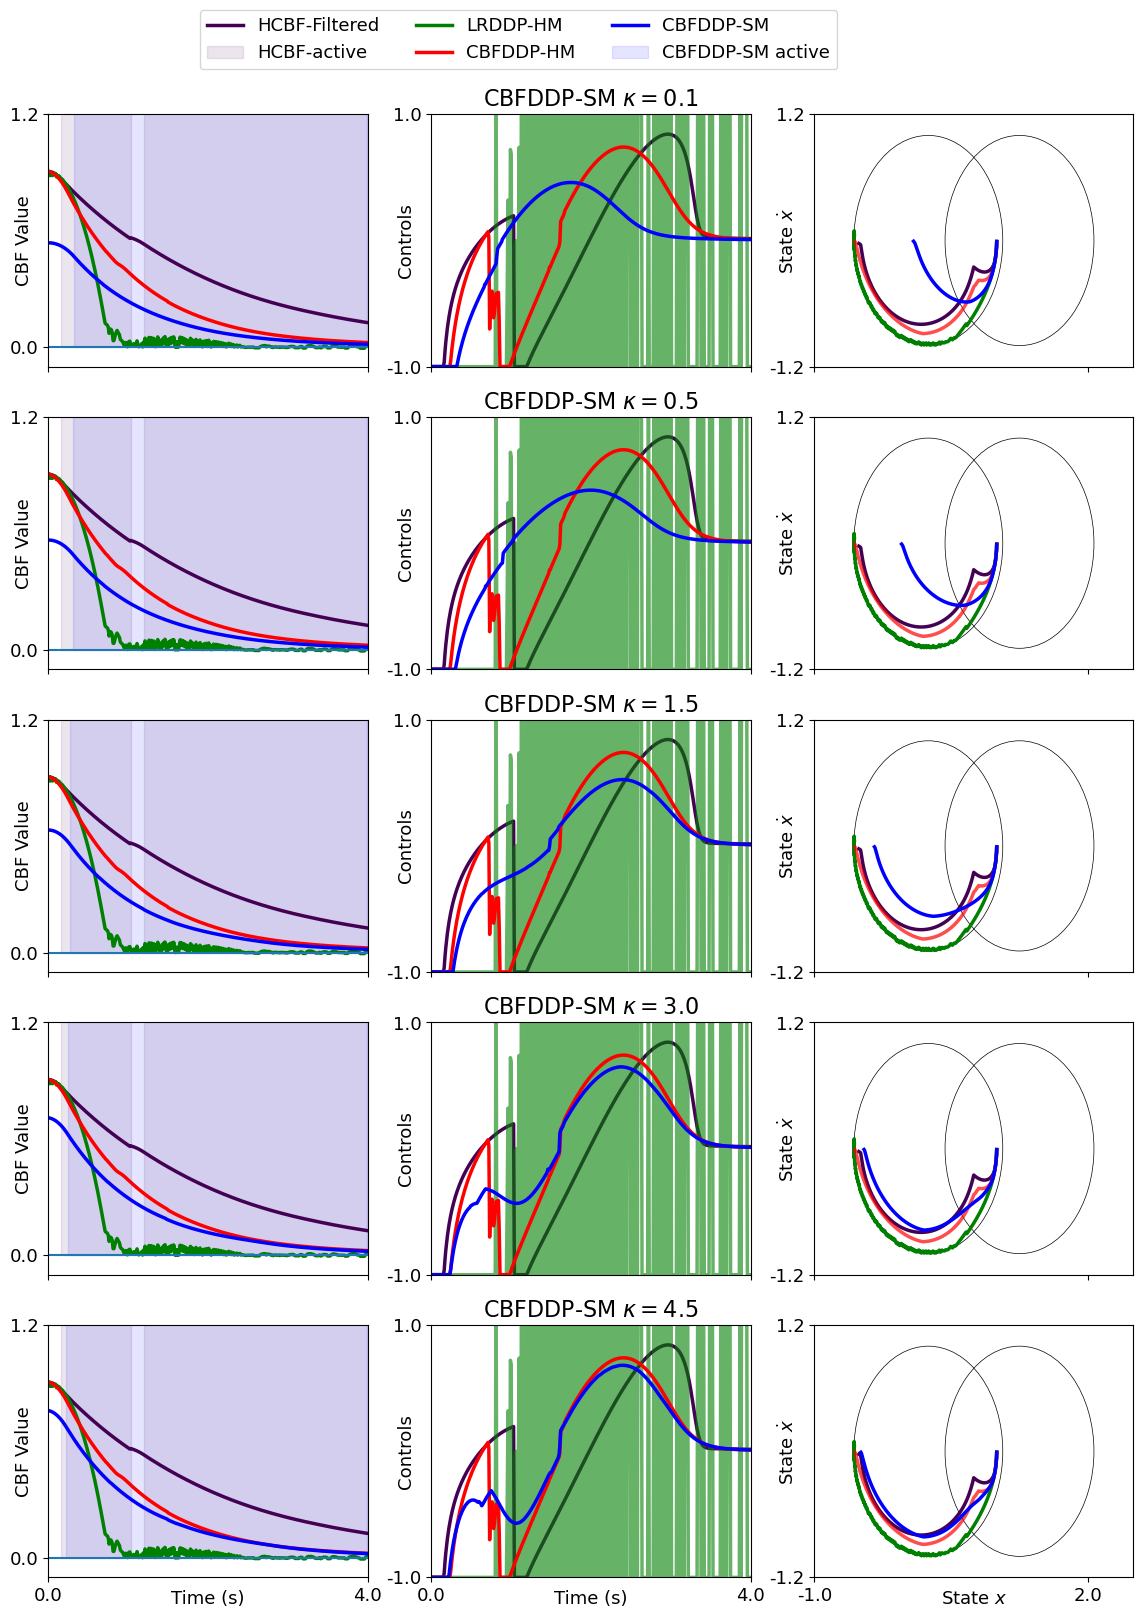
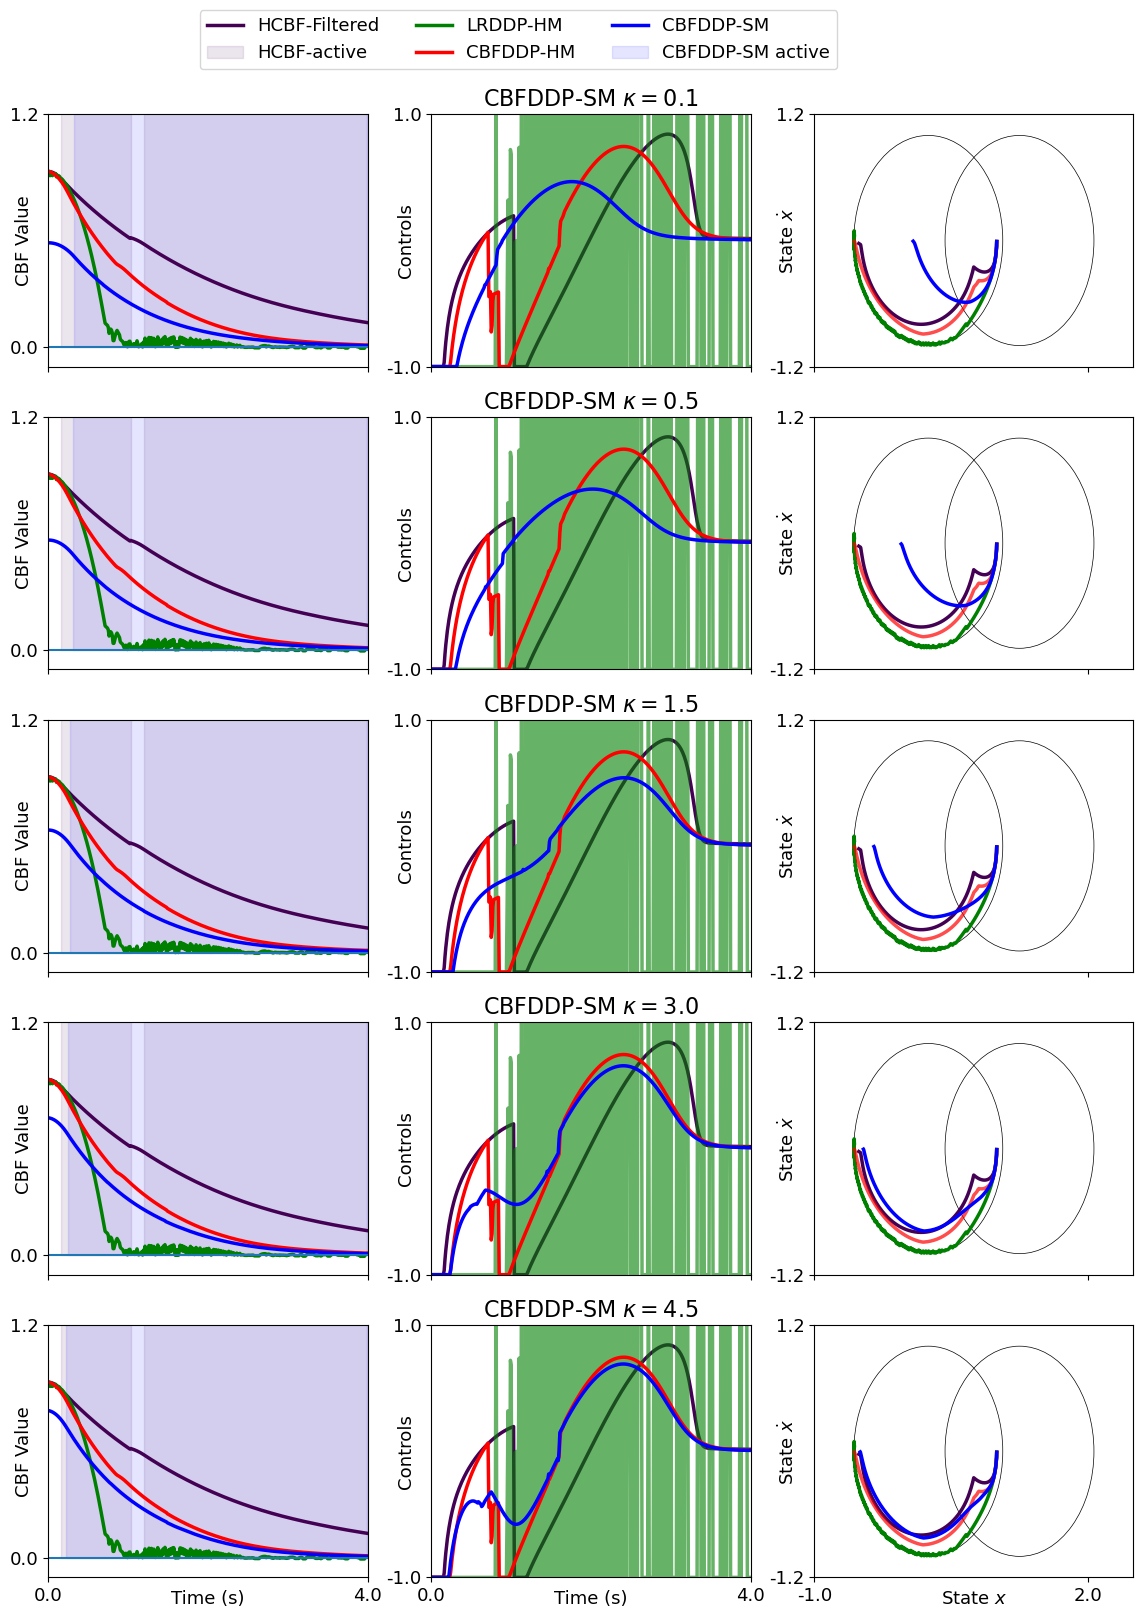
improving smoothness by initializing and tuning

diff --git a/policies.py b/policies.py
@@ -8,7 +8,7 @@ from cbfs_and_costs import CBF
 import cvxpy as cp
 from cvxpy import SolverError
 
-def barrier_filter_quadratic_one(P, p, c):
+def barrier_filter_quadratic_one(P, p, c, initialize, control_bias_term=np.zeros((1,))):
     def is_neg_def(x):
         # Check if a matrix is PSD
         return np.all(np.real(np.linalg.eigvals(x)) <= 0)
@@ -18,10 +18,11 @@ def barrier_filter_quadratic_one(P, p, c):
     # Check if P is PD
     if (check_nd):
         u = cp.Variable((1))
+        u.value = np.array(initialize)
         P = np.array(P)
         p = np.array(p)
 
-        prob = cp.Problem(cp.Minimize(1.0 * cp.square(u[0])),
+        prob = cp.Problem(cp.Minimize(1.0 * cp.square(u[0] + control_bias_term[0])),
                           [cp.quad_form(u, P) + p.T @ u + c >= 0])
         try:
             prob.solve(verbose=False)
@@ -31,7 +32,8 @@ def barrier_filter_quadratic_one(P, p, c):
     if (not check_nd or u[0] is None or prob.status not in [
             "optimal", "optimal_inaccurate"]):
         u = cp.Variable((1))
-        prob = cp.Problem(cp.Minimize(1.0 * cp.square(u[0])),
+        u.value = np.array(initialize)
+        prob = cp.Problem(cp.Minimize(1.0 * cp.square(u[0] + control_bias_term[0])),
                           [p @ u + c >= 0])
         try:
             prob.solve(verbose=False)
@@ -225,7 +227,7 @@ class ReachabilityLQPolicy:
             # Choose the best alpha scaling using appropriate line search methods
             alpha_chosen = self.baseline_line_search( states, controls, K_closed_loop, k_open_loop, critical_margin, J )
             
-            if alpha_chosen<1e-13:
+            if alpha_chosen<1e-10:
                 J_new = J
                 break
 
@@ -250,7 +252,7 @@ class ReachabilityLQPolicy:
 
     def baseline_line_search( self, states, controls, K_closed_loop, k_open_loop, critical, J, beta=0.3 ):
         alpha = 1.0
-        while alpha>1e-13:
+        while alpha>1e-10:
             _, _, J_new, _, _, _ = self.forward_pass(states, controls, K_closed_loop, k_open_loop, alpha)    
 
             # Accept if there is improvement
@@ -298,7 +300,7 @@ class DDPCBFFilter:
         self.reinit_controls = np.zeros((horizon, action_dim))
         self.gamma = gamma
 
-    def apply_filter(self, state_x, u_perf, linear_sys):
+    def apply_filter(self, state_x, u_perf, linear_sys, initialize):
         dyn_copy = copy.deepcopy(linear_sys)
         control_safe_1, solver_dict_plan_1, constraints_data_plan_1 = self.rollout_policy_1.get_action( 
             np.array( state_x ) , initial_controls=self.reinit_controls)
@@ -317,17 +319,18 @@ class DDPCBFFilter:
         eps_regularization = 1e-6
 
         constraint_violation = solver_dict_plan_2['reachable_margin'] - self.gamma*solver_dict_plan_1['reachable_margin']
-        scaling_factor = 0.5
+        scaling_factor = 0.3
         scaled_c = scaling_factor*constraint_violation 
         p = Bd.T @ constraints_data_plan_2['V_x']
         P = -eps_regularization * \
                 np.eye(self.rollout_policy_1.action_dim) + 0.5 * Bd.T @ constraints_data_plan_2['V_xx'] @ Bd
         p_norm = np.linalg.norm(p)
         barrier_entries = 0
+        control_bias_term = np.zeros((1,))
         while constraint_violation<=0 and barrier_entries<5:
             barrier_entries += 1
             #control_correction = -p*scaled_c/((p_norm)**2 + 1e-12)
-            control_correction = barrier_filter_quadratic_one(P, p, scaled_c)
+            control_correction = barrier_filter_quadratic_one(P, p, scaled_c, initialize, control_bias_term)
             control_cbf = control_cbf + control_correction
             control_cbf_new = control_cbf + control_correction
             control_cbf_new = control_cbf_new.ravel()
@@ -347,8 +350,10 @@ class DDPCBFFilter:
             p_norm = np.linalg.norm( p )
             constraint_violation = solver_dict_plan_2['reachable_margin'] - self.gamma*(solver_dict_plan_1['reachable_margin'])
             boot_controls = solver_dict_plan_2['controls']
-            scaled_c = 1.3*constraint_violation 
+            scaled_c = scaling_factor*constraint_violation 
+            control_bias_term += control_correction
         
+        #self.reinit_controls = np.array(boot_controls)
         print("Constraint violation", constraint_violation)
         #if solver_dict_plan_2["reachable_margin"]<=0.0:
         #    return control_safe_1.ravel(),solver_dict_plan_1["reachable_margin"], constraint_violation, p.copy()

diff --git a/evaluation.py b/evaluation.py
@@ -16,7 +16,7 @@ viridis = mpl.colormaps['viridis'].resampled(8)
 
 linear_sys = LinearSys()
 
-cbf_type = 'B'
+cbf_type = 'A'
 if cbf_type == 'A':
     cbf = MultiCBF()
 elif cbf_type == 'B':
@@ -68,7 +68,11 @@ def run_simulation(linear_sys, cbf, method=None, Rc=None, horizon=None, gamma=No
             lie_f_vals[idx] = lie_f.ravel()[0]
             lie_g_vals[idx] = lie_g.ravel()[0]
         elif method == 'ddpcbf':
-            action_filtered, ddp_cbf_eval, lie_f, lie_g, barrier_entries = ddpcbf.apply_filter(obs.ravel(), action_perf, linear_sys)
+            if idx == 0:
+                initialize = np.zeros((1,))
+            else:
+                initialize = controls[idx - 1] - action_perf
+            action_filtered, ddp_cbf_eval, lie_f, lie_g, barrier_entries = ddpcbf.apply_filter(obs.ravel(), action_perf, linear_sys, initialize=initialize)
             solver_types[idx] = barrier_entries
             lie_f_vals[idx] = lie_f.ravel()[0]
             lie_g_vals[idx] = lie_g.ravel()[0]
